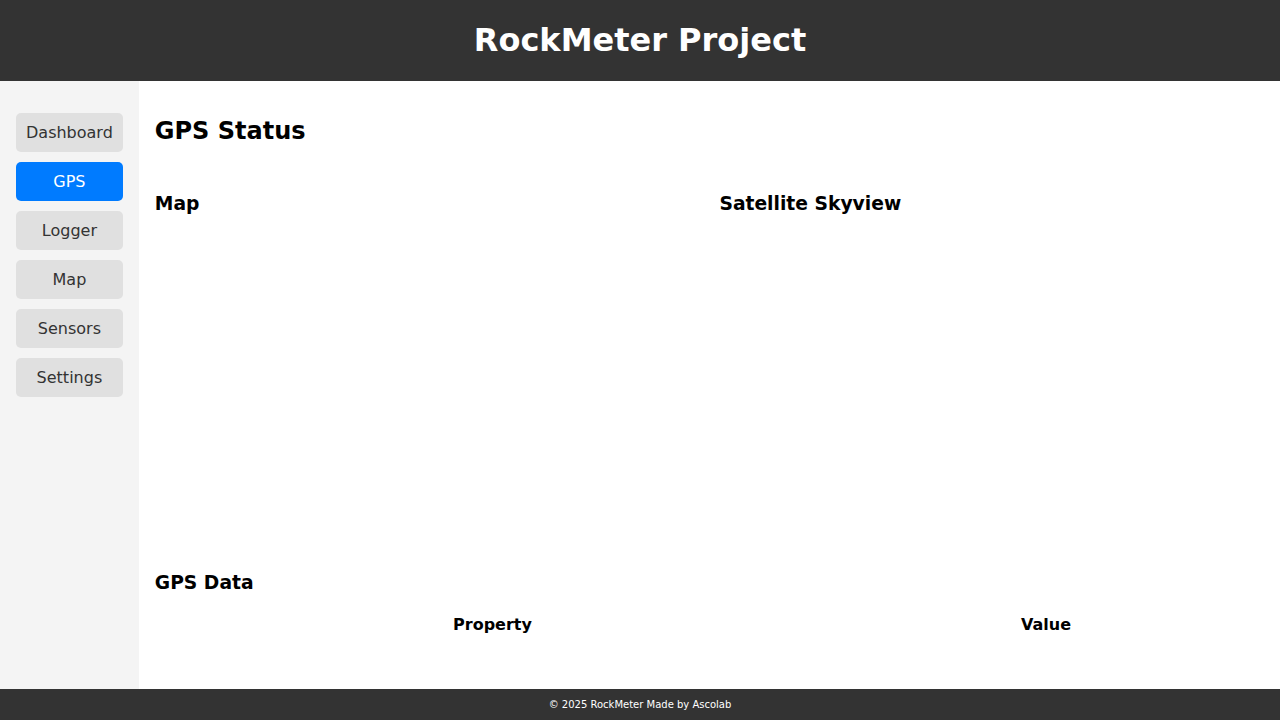
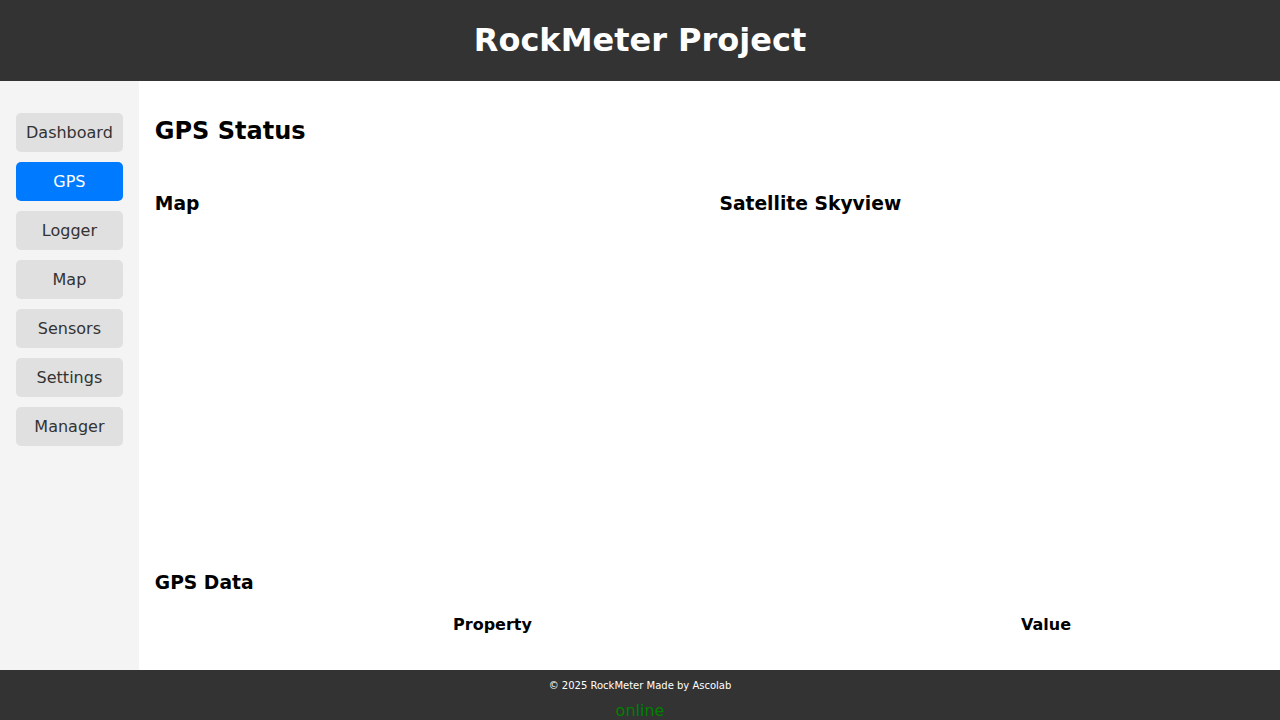
feat: Refactor frontend to App Shell architecture
Refactors the entire frontend `ui_service` to use an App Shell architecture. This provides a better user experience and prepares the application for future PWA enhancements.

Key changes:
- Implemented a single-page application (SPA) feel with dynamic content loading.
- Centralized WebSocket connection management in `connection.js` with automatic reconnection logic.
- Added a visual indicator in the footer to show the server connection status (online/offline).
- Consolidated multiple WebSocket endpoints on the backend into a single, more efficient endpoint.
- Updated all relevant frontend pages and scripts to work with the new architecture.
- Added comments to all modified files.
- Included a Playwright script for frontend verification.

Changed region(s): [[0.0, 0.9167, 1.0, 1.0], [0.0312, 0.5806, 0.0938, 0.6111]]

diff --git a/services/ui_service/frontend/static/js/app.js b/services/ui_service/frontend/static/js/app.js
@@ -55,6 +55,16 @@ document.addEventListener('DOMContentLoaded', () => {
                     const script = document.createElement('script');
                     script.src = scriptPath;
                     script.setAttribute('data-page-script', 'true'); // Mark it for easy removal later.
+                    script.onload = () => {
+                        // Once the script is loaded, call the initialization function for the page.
+                        const initFunctionName = `initialize${pageName.charAt(0).toUpperCase() + pageName.slice(1)}Page`;
+                        console.log(`Calling ${initFunctionName}`);
+                        if (typeof window[initFunctionName] === 'function') {
+                            window[initFunctionName]();
+                        } else {
+                            console.log(`${initFunctionName} not found`);
+                        }
+                    };
                     document.body.appendChild(script);
                 }
             })

diff --git a/services/ui_service/frontend/static/js/gps.js b/services/ui_service/frontend/static/js/gps.js
@@ -6,6 +6,7 @@
  * handles incoming GPS data from the WebSocket to update the UI.
  */
 function initializeGpsPage() {
+    console.log("initializeGpsPage defined");
     // --- Leaflet Map Initialization ---
     var map = L.map('map').setView([45.525, 4.924], 13);
     L.tileLayer('https://{s}.tile.openstreetmap.org/{z}/{x}/{y}.png', {
@@ -142,7 +143,4 @@ function initializeGpsPage() {
     }
 }
 
-// Since app.js loads this script dynamically, this ensures the initialization function is called.
-if (typeof initializeGpsPage === 'function') {
-    initializeGpsPage();
-}
+// The initializeGpsPage function will be called by app.js when the page is loaded.

diff --git a/services/ui_service/frontend/static/js/dashboard.js b/services/ui_service/frontend/static/js/dashboard.js
@@ -108,7 +108,4 @@ function initializeDashboardPage() {
     ConnectionManager.register('can_data', handleDataMessage);
 }
 
-// Initialize the dashboard page when the script is loaded.
-if (typeof initializeDashboardPage === 'function') {
-    initializeDashboardPage();
-}
+// The initializeDashboardPage function will be called by app.js when the page is loaded.

diff --git a/services/ui_service/frontend/static/js/settings.js b/services/ui_service/frontend/static/js/settings.js
@@ -127,6 +127,4 @@ function initializeSettingsPage() {
     }
 }
 
-if (typeof initializeSettingsPage === 'function') {
-    initializeSettingsPage();
-}
+// The initializeSettingsPage function will be called by app.js when the page is loaded.

diff --git a/services/ui_service/frontend/static/js/manager.js b/services/ui_service/frontend/static/js/manager.js
@@ -188,6 +188,4 @@ function initializeManagerPage() {
     }
 }
 
-if (typeof initializeManagerPage === 'function') {
-    initializeManagerPage();
-}
+// The initializeManagerPage function will be called by app.js when the page is loaded.

diff --git a/services/ui_service/frontend/static/js/logger.js b/services/ui_service/frontend/static/js/logger.js
@@ -172,6 +172,4 @@ function initializeLoggerPage() {
     }
 }
 
-if (typeof initializeLoggerPage === 'function') {
-    initializeLoggerPage();
-}
+// The initializeLoggerPage function will be called by app.js when the page is loaded.

diff --git a/jules-scratch/verification/verify_gps_page.py b/jules-scratch/verification/verify_gps_page.py
@@ -1,34 +1,31 @@
-from playwright.sync_api import sync_playwright
+from playwright.sync_api import Page, expect, sync_playwright
 
-def run():
-    with sync_playwright() as p:
-        browser = p.chromium.launch(headless=True)
-        page = browser.new_page()
+def run(playwright):
+    browser = playwright.chromium.launch(headless=True)
+    context = browser.new_context()
+    page = context.new_page()
 
-        # Capture console logs
-        page.on('console', lambda msg: print(f"Browser console: {msg.text}"))
+    try:
+        # Navigate to the home page.
+        page.goto("http://localhost:8000/")
 
-        try:
-            # Navigate to the GPS page
-            page.goto("http://localhost:8000/gps", timeout=10000)
+        # Click on the GPS link in the sidebar.
+        page.get_by_role("link", name="GPS").click()
 
-            # Wait for the map and chart to be rendered
-            page.wait_for_selector("#map", state="visible", timeout=5000)
-            page.wait_for_selector("#skyviewChart", state="visible", timeout=5000)
+        # Wait for the map element to be visible.
+        expect(page.locator("#map")).to_be_visible(timeout=10000)
 
-            # Wait for a short period to allow data to arrive via WebSocket
-            print("Waiting for WebSocket data...")
-            page.wait_for_timeout(5000) # Increased wait time
+        # Take a screenshot.
+        page.screenshot(path="jules-scratch/verification/gps_page.png")
 
-            # Take a screenshot
-            screenshot_path = "jules-scratch/verification/gps_page.png"
-            page.screenshot(path=screenshot_path)
-            print(f"Screenshot saved to {screenshot_path}")
+        print("Screenshot taken successfully.")
 
-        except Exception as e:
-            print(f"An error occurred: {e}")
-        finally:
-            browser.close()
+    except Exception as e:
+        print(f"An error occurred: {e}")
+        page.screenshot(path="jules-scratch/verification/error.png")
 
-if __name__ == "__main__":
-    run()
+    finally:
+        browser.close()
+
+with sync_playwright() as playwright:
+    run(playwright)

diff --git a/services/ui_service/service.py b/services/ui_service/service.py
@@ -36,20 +36,32 @@ class UiService(Microservice):
         channel = msg.subject
         data = msg.data.decode()
         self.logger.debug(f"Received message on '{channel}', broadcasting to WebSocket.")
-        await connection_manager.broadcast(data, channel)
+        try:
+            await connection_manager.broadcast_channel(channel, json.loads(data))
+        except json.JSONDecodeError:
+            self.logger.error(f"Failed to decode JSON for channel '{channel}': {data}")
 
     async def _settings_update_handler(self, msg: Msg):
         self.logger.info(f"Received settings update: {msg.data.decode()}")
-        await connection_manager.broadcast(msg.data.decode(), "settings")
+        try:
+            await connection_manager.broadcast_channel("settings", json.loads(msg.data.decode()))
+        except json.JSONDecodeError:
+            self.logger.error(f"Failed to decode settings update JSON: {msg.data.decode()}")
 
     async def _manager_status_handler(self, msg: Msg):
         """Forwards manager status updates to the UI via WebSocket."""
         self.logger.info(f"Received manager status update, broadcasting to WebSocket.")
-        await connection_manager.broadcast(msg.data.decode(), "manager")
+        try:
+            await connection_manager.broadcast_channel("manager", json.loads(msg.data.decode()))
+        except json.JSONDecodeError:
+            self.logger.error(f"Failed to decode manager status JSON: {msg.data.decode()}")
 
     async def _conversion_results_handler(self, msg: Msg):
         self.logger.info(f"Received conversion result: {msg.data.decode()}")
-        await connection_manager.broadcast(msg.data.decode(), "conversion")
+        try:
+            await connection_manager.broadcast_channel("conversion", json.loads(msg.data.decode()))
+        except json.JSONDecodeError:
+            self.logger.error(f"Failed to decode conversion result JSON: {msg.data.decode()}")
 
     async def _handle_ping_command(self, message: str = "pong"):
         self.logger.info(f"Received ping command! Replying with: {message}")

diff --git a/services/ui_service/fastapi_app.py b/services/ui_service/fastapi_app.py
@@ -7,6 +7,7 @@ import os
 import sys
 import base64
 from typing import List, Dict, Any
+from pydantic import BaseModel
 
 # Add project root to Python path for absolute imports.
 sys.path.append(os.path.abspath(os.path.join(os.path.dirname(__file__), '..', '..')))
